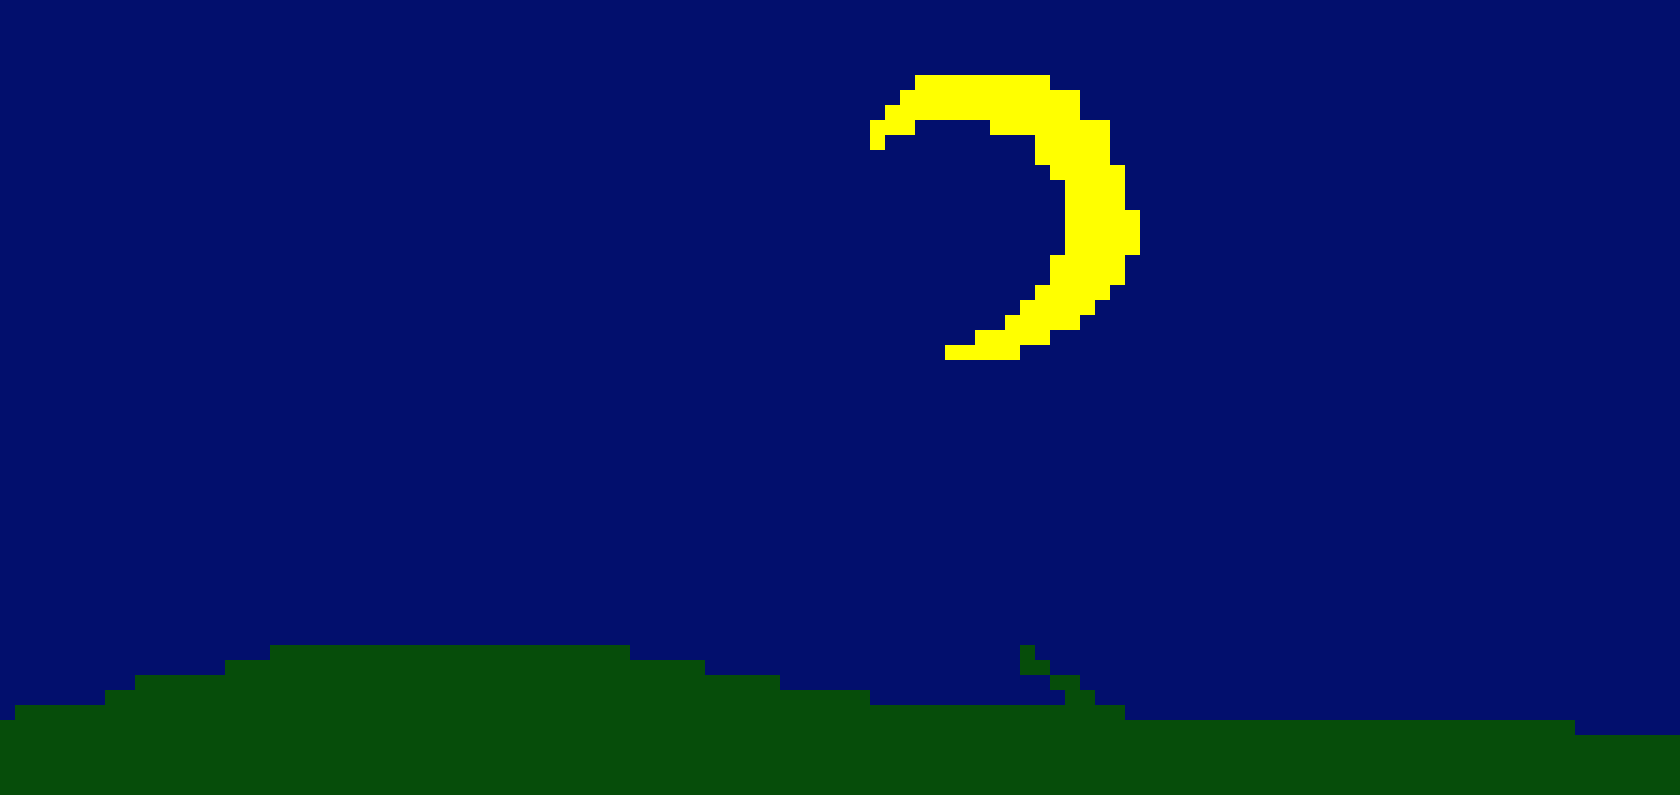
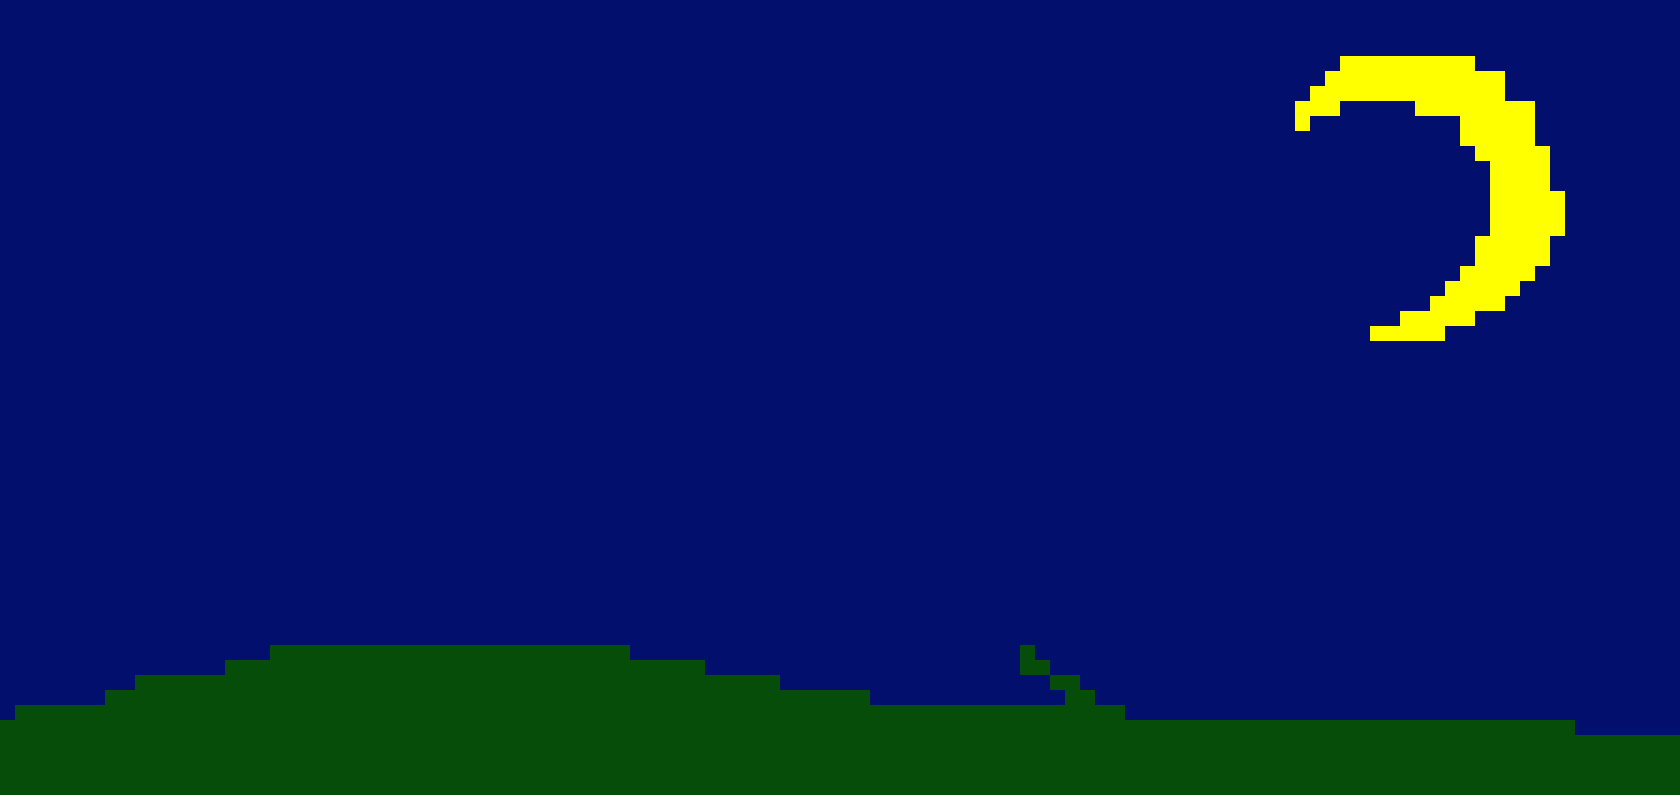
Wolfs

Changed region(s): [[0.7738, 0.0604, 0.9286, 0.4528], [0.4952, 0.0906, 0.681, 0.4528]]

diff --git a/js/wolf.js b/js/wolf.js
@@ -4,7 +4,9 @@ var w,h,timestep;
 var gameStarted = false;
 var colors = [];
 var img;
+var img2;
 var loaded;
+var loaded2;
 for (let i = 0; i < 18; i++) {
     colors[i] = '#' + Math.floor(Math.random() * 16777215).toString(16);
 }
@@ -24,24 +26,25 @@ function drawBackground(ctx) {
 		loaded = true;
 		img = new Image();   // Create new img element
 		img.addEventListener('load', function() {
-			ctx.drawImage(img,0,0,w,h);
 		}, false);
 		img.src = 'img/art.png'; // Set source path
 	}
 }
 function drawWolf(ctx) {
-    ctx.font = 'italic 30px monospace';
-    for (let i = 0; i < 18; i++) {
-        ctx.fillStyle = colors[i];
-        ctx.fillText('GATHERING OF THE WOLFS', 150 + 2.5 * i, 340 + 2.5 * i);
-    }
-    colors.shift();
-    colors.push('#' + Math.floor(Math.random() * 16777215).toString(16));
+    if(loaded2) {
+		ctx.drawImage(img2,150,150);
+	} else {
+		loaded2 = true;
+		img2 = new Image();   // Create new img element
+		img2.addEventListener('load', function() {
+		}, false);
+		img2.src = 'img/wolf.png'; // Set source path
+	}
 }
 function drawStartScreen(ctx) {
     ctx.font = 'italic 30px monospace';
-    ctx.fillStyle = 'green';
-    ctx.fillText('>CLICK TO START', 150, 200);
+    ctx.fillStyle = 'brown';
+    ctx.fillText('>CLICK TO START', 150, 50);
 }
 document.addEventListener('DOMContentLoaded', function () {
     var gameboard = document.getElementById('gameboard');
@@ -58,7 +61,7 @@ document.addEventListener('DOMContentLoaded', function () {
 
 
     var drawGame = function () {
-        var draw = [drawWolf, drawTitle,drawBackground];
+        var draw = [drawBackground,drawTitle,drawWolf];
         if (gameStarted) {
             //draw = draw.concat([]);
         } else {
